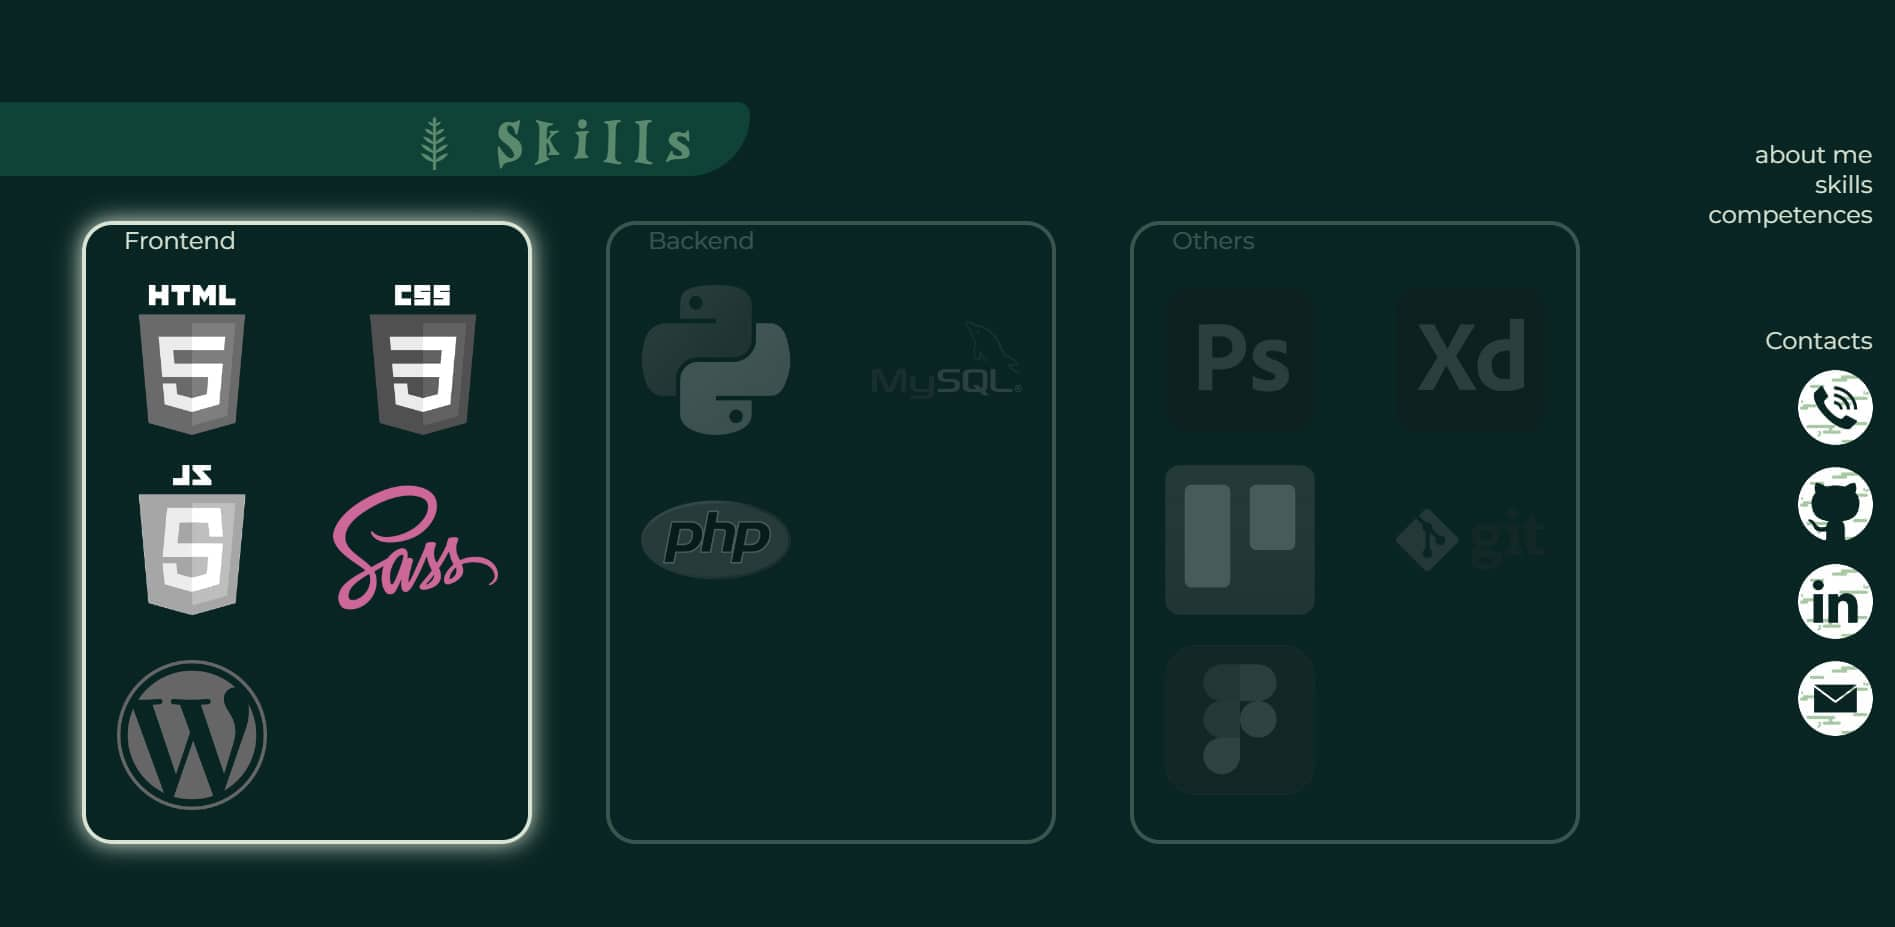
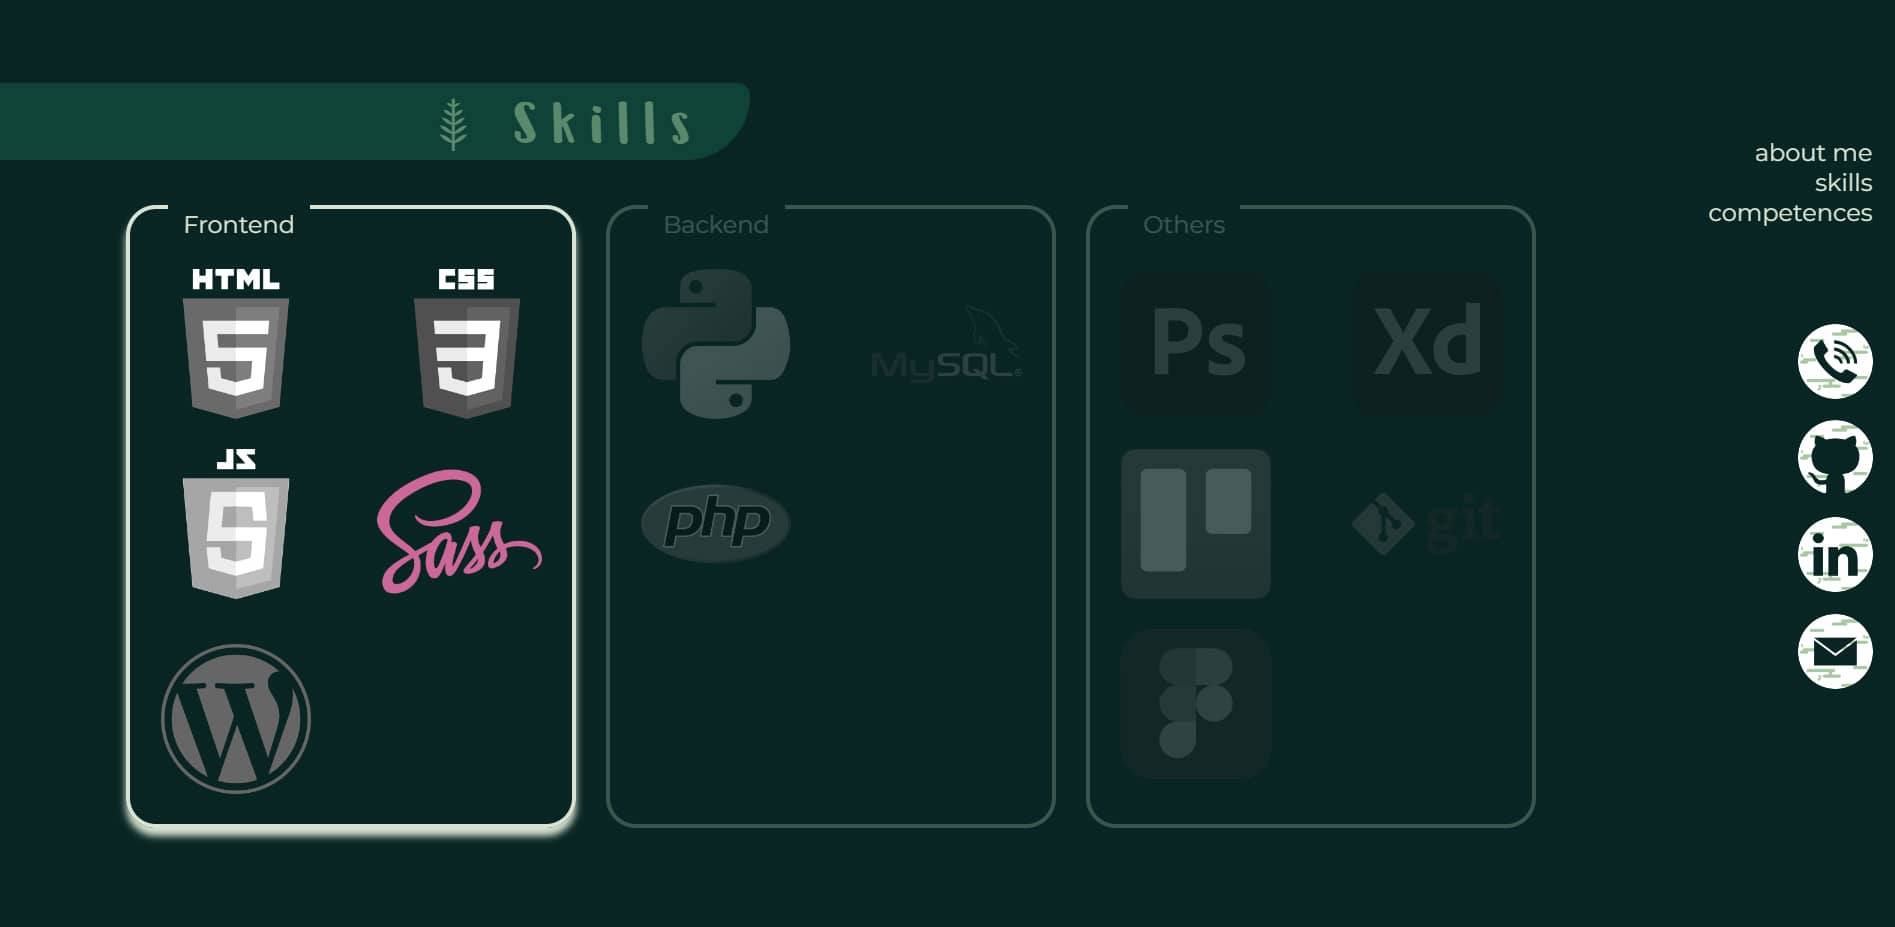
:mag: SEO

diff --git a/index.html b/index.html
@@ -4,15 +4,33 @@
 
   <head>
 
+    <!-- SEO -->
     <meta charset="utf-8" />
     <meta http-equiv="X-UA-Compatible" content="IE=edge" />
-    <meta name="keywords" content="portfolio developer student">
-    <meta name="description" content="Hi, congratulation for finding my porfolio! I'm a junior developper and I'm going to show you little what I did during those 2 years attending IIM.">
+    <meta name="keywords" content="portfolio junior developer student">
+    <meta name="description" content="Hi, congratulation for finding my porfolio! I'm a Céline Eap a junior 
+    developper who is currently in her 2nd year at IIM university in the Coding & Digital Innovation course.
+    I'm going to show you little what I did during those 2 years attending IIM.">
     <meta name="author" content="Céline Eap">
-    <meta http-equiv="refresh" content="30">
+
+    <!--witch page should be prioritized? -->
+    <link href="https://elyn03.github.io/celine-portfolio/" rel="canonical">
+
+    <!-- the informations about the page when shared via social channels -->
+    <meta property="og:title" content="Céline's portfolio" />
+    <meta property="og:type" content="portfolio" />
+    <meta property="og:description" content="A 2nd year student codes her postfolio, how is it?" />
+    <meta property="og:url" content="https://elyn03.github.io/celine-portfolio/" />
+    <meta property="og:image" content="img/pp.jpg" />
+    
+    <!-- witch pages shoud be indexed or not? -->
+    <meta name="robots" content="index, follow">
+
+
     <link rel="icon" href="img/logo.ico" />
     <title>Portfolio Céline Eap</title>
 
+    <!-- encoded as JSON-LD in a HTML script tag find at schema.org -->
     <script type="application/ld+json">
       {
         "@context": "https://schema.org",
@@ -24,7 +42,7 @@
           "streetAddress": "70, Avenue du Général de Gaulle"
         },
         "email": "mailto:eapceline@gmail.com",
-        "image": "pp.jpg",
+        "image": "img/pp.jpg",
         "jobTitle": "Student",
         "name": "Céline Eap",
         "telephone": "0769362969",
@@ -40,10 +58,11 @@
 
   <body>
 
-    <button id="btt">⇧</button>
+    <!-- <button id="btt">⇧</button> -->
 
     <div class="wrapper">
 
+      <!-- parallax -->
       <div class="parallax__group hero-container">
         <div class="parallax__layer sky"></div>
         <div class="parallax__layer mountains"></div>
@@ -56,6 +75,7 @@
 
       <div class="debut">
 
+        <!-- menu -->
         <div class="menu section animate__fadeInRightBig" section>
 
           <div class="section">
@@ -75,10 +95,11 @@
 
         <div class="tout">
 
+          <!-- about me -->
           <section id="1" class="pt me">
 
             <div class="animate__boundeIn titre">
-              ⸙ About me
+              <h1>⸙ About me</h1>
             </div>
 
             <div class="content">
@@ -109,17 +130,18 @@
 
           </section>
 
+          <!-- my skills -->
           <section id="2" class="pt sk">
 
             <div class="titre autre">
-              ⸙ Skills
+              <h1>⸙ Skills</h1>
             </div>
 
             <div class="content">
 
               <div class="skill front">
 
-                <a class="type">Frontend</a>
+                <h2><a class="type">Front-end</a></h2>
 
                 <div class="logos">
                   <img src="img/skills/html.png" alt="html_logo">
@@ -133,7 +155,7 @@
 
               <div class="skill end">
 
-                <a class="type">Backend</a>
+                <h2><a class="type">Back-end</a></h2>
 
                 <div class="logos">
                   <img src="img/skills/python.png" alt="python_logo">
@@ -145,7 +167,7 @@
 
               <div class="skill other">
                 
-                <a class="type">Others</a>
+                <h2><a class="type">Others</a></h2>
 
                 <div class="logos">
                   <img src="img/skills/ps.png" alt="photoshop_logo">
@@ -161,10 +183,11 @@
 
           </section>
           
+          <!-- my projects -->
           <section id="3" class="pt pr">
 
             <div class="titre autre">
-              ⸙ Projects
+              <h1>⸙ Projects</h1>
             </div>
 
             <div class="content">
@@ -224,9 +247,9 @@
 
         </div>
         
-
+        <!-- footer -->
         <footer class="footer">
-        Copyright © 2022 - Tout Droits Réservés | <a href="map.html">Site map</a>
+          Copyright © 2022 - All rights reserved. | <a href="map.html">Site map</a>
         </footer>
       
       </div>

diff --git a/map.html b/map.html
@@ -1,12 +1,83 @@
 <!DOCTYPE html>
+
 <html lang="en">
-<head>
-    <meta charset="UTF-8">
-    <meta http-equiv="X-UA-Compatible" content="IE=edge">
-    <meta name="viewport" content="width=device-width, initial-scale=1.0">
-    <title>Site map</title>
-</head>
-<body>
-    
-</body>
+
+  <head>
+
+    <meta charset="utf-8" />
+    <meta http-equiv="X-UA-Compatible" content="IE=edge" />
+    <meta name="keywords" content="portfolio developer student">
+    <meta name="description" content="Hi, congratulation for finding my porfolio! I'm a junior developper and I'm going to show you little what I did during those 2 years attending IIM.">
+    <meta name="author" content="Céline Eap">
+    <meta http-equiv="refresh" content="30">
+    <link rel="icon" href="img/logo.ico" />
+    <title>Portfolio Céline Eap</title>
+    <meta name="viewport" content="width=device-width, initial-scale=1" />
+    <link rel="stylesheet" href="build.css" />
+    <link rel="stylesheet" href="https://cdnjs.cloudflare.com/ajax/libs/animate.css/4.1.1/animate.min.css"/>
+
+  </head>
+
+  <body>
+
+    <!-- <button id="btt">⇧</button> -->
+
+    <div class="wrapper">
+
+      <div class="debut">
+
+        <div class="menu section animate__fadeInRightBig" section>
+
+          <div class="contact">
+            <a href="tel:+769362969"><img src="img/tel.png" alt="teléphone"></a>
+            <a href="https://github.com/Elyn03" target="_blank"><img src="img/github.png" alt="github"></a>
+            <a href="https://www.linkedin.com/in/c%C3%A9line-eap/" target="_blank"><img src="img/linkedin.png" alt="linkedin"></a>
+            <a href="mailto:eapceline@gmail.com"><img src="img/mail.png" alt="mail"></a>
+          </div>
+          
+        </div>
+
+        <div class="tout">
+
+
+            <h1 style="font-size: 40px;">Site map</h2>
+
+            <br>
+
+            <style>
+                h1 {
+                    padding: 0 30px ;
+                }
+                dl {
+                    padding: 50px;
+                }
+                dd {
+                    padding: 0 40px;
+                }
+            </style>
+            <dl>
+                <dt style="font-size: 30px;">Céline's Portfolio</dt>
+                <dd style="font-size: 20px; color: #fff;">- About me</dd>
+                <dd style="font-size: 20px; color: #fff;">- Skills</dd>
+                <dd style="font-size: 20px; color: #fff;">- Projects</dd>
+                <br>
+                <dt style="font-size: 30px;">> Phone number</dt>
+                <dt style="font-size: 30px;">> Github Account</dt>
+                <dt style="font-size: 30px;">> LinkedIn Account</dt>
+                <dt style="font-size: 30px;">> Mail address</dt>
+            </dl>
+
+        </div>
+        
+
+        <footer class="footer">
+            Copyright © 2022 - Tout Droits Réservés | <a href="index.html">Site portfolio</a>
+        </footer>
+      
+      </div>
+    </div>
+  
+    <script src="script.js"></script>
+
+  </body>
 </html>

diff --git a/build.css b/build.css
@@ -95,6 +95,10 @@ body {
   text-align: right;
   grid-area: footer;
 }
+.debut .footer a {
+  text-decoration: none;
+  color: #d8e3d3;
+}
 
 .me {
   grid-area: me;
@@ -437,7 +441,7 @@ body {
   }
 }
 .debut .titre {
-  font-size: 40px;
+  font-size: 30px;
   background-color: #0f4237;
   color: #5b896d;
   display: flex;

diff --git a/sass/layout/_footer.scss b/sass/layout/_footer.scss
@@ -6,5 +6,10 @@
         padding: 10px;
         text-align: right;
         grid-area: footer;
+
+        a {
+            text-decoration: none;
+            color: #d8e3d3;
+        }
     }
 }

diff --git a/sass/style.scss b/sass/style.scss
@@ -72,7 +72,7 @@
     }
     
     .titre {
-        font-size: 40px;
+        font-size: 30px;
         background-color: #0f4237;
         color: #5b896d;
         display: flex;

diff --git a/README.md b/README.md
@@ -28,3 +28,5 @@ Finally, what are the actions implemented in my repository :
 I choose to activate 2 apps from the marketplace :
 - the first one is "Imgbot" because it helps to optimize all the images thats are present in the project  
 - the second one is "CodeFactor" because it ensures that my code meets with the quality standards with a review that takes only few seconds
+
+Don't hesitate to contact me if you find any bug or just wanna talk about my code ^^
